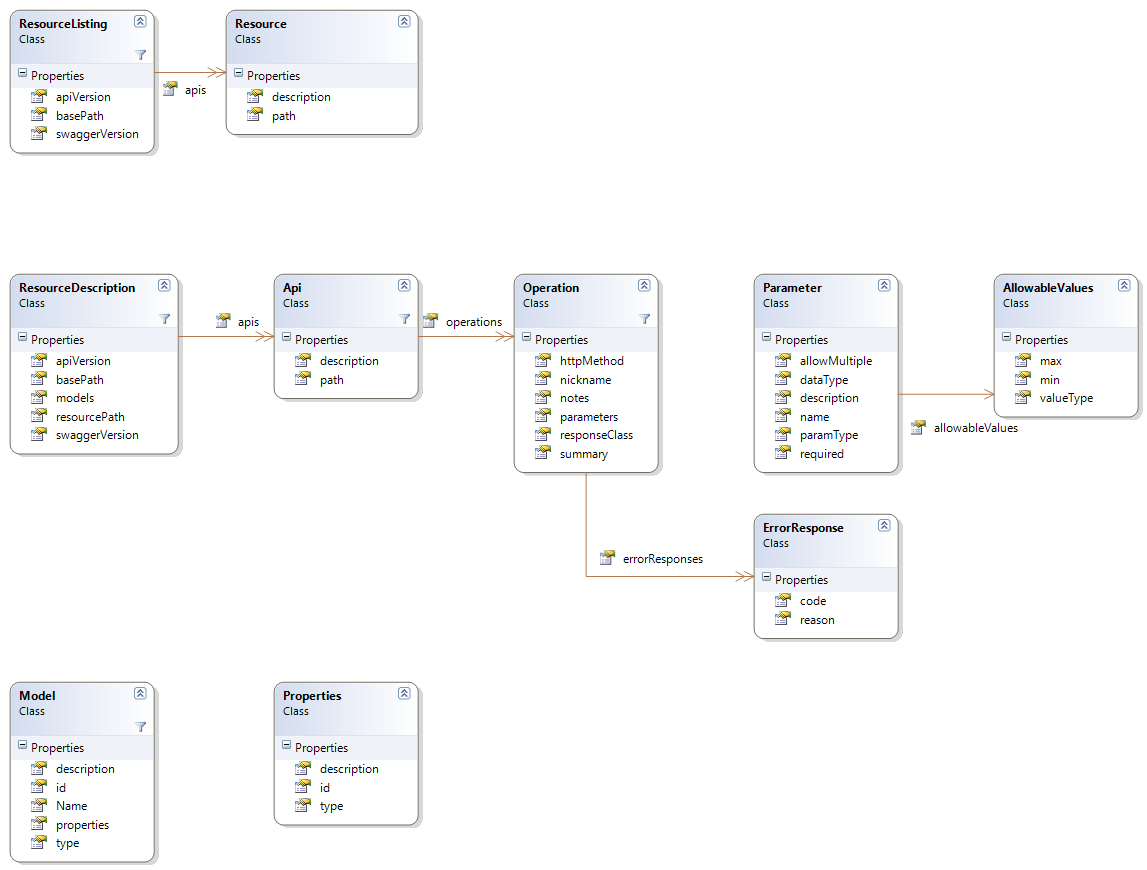
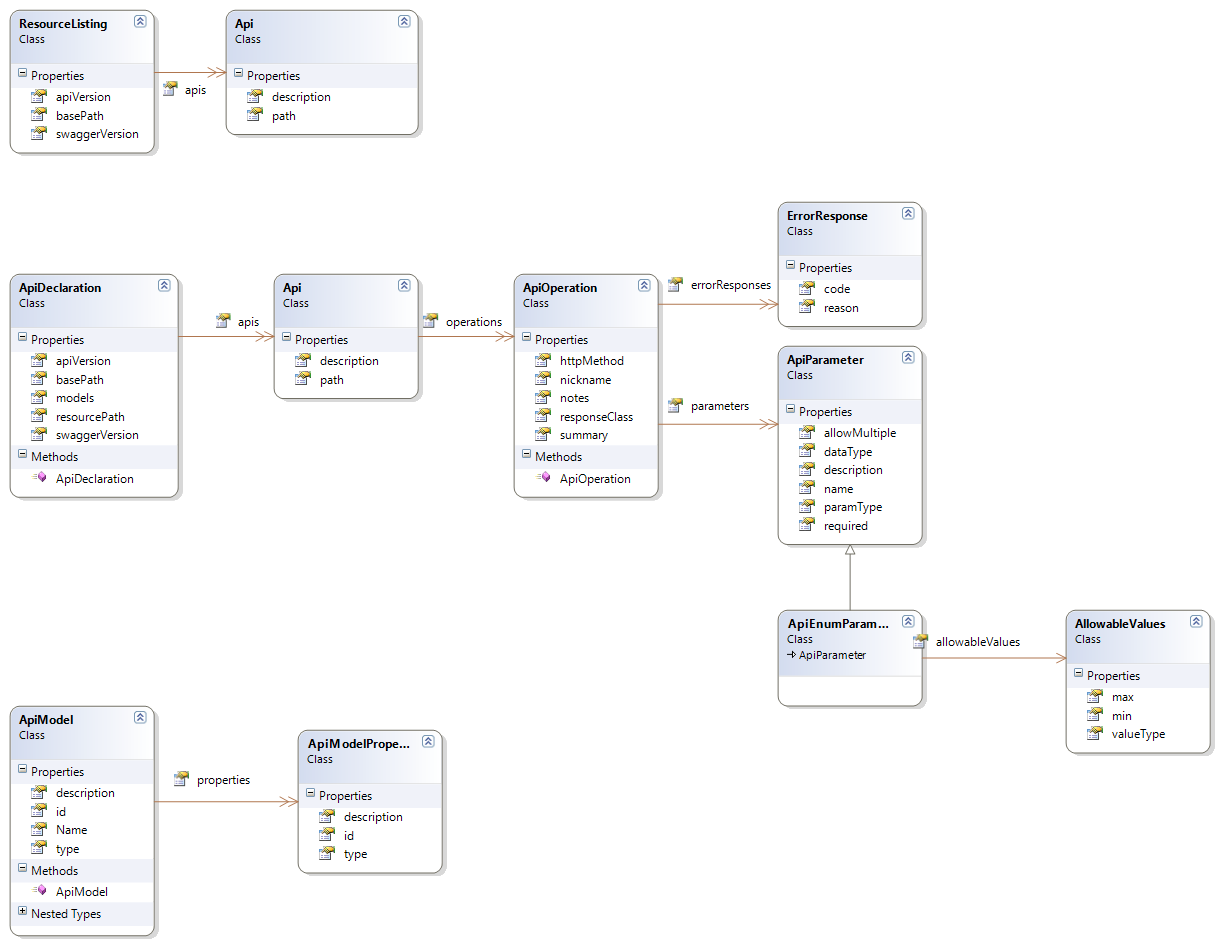
update models, recreate diagrams

diff --git a/Swagger.Net/Factories/ParameterFactory.cs b/Swagger.Net/Factories/ParameterFactory.cs
@@ -28,28 +28,30 @@ namespace Swagger.Net.Factories
 
         #endregion --- fields & ctors ---
 
-        public List<dynamic> CreateParameters(Collection<ApiParameterDescription> httpParams, string relativePath)
+        public List<ApiParameter> CreateParameters(Collection<ApiParameterDescription> httpParams, string relativePath)
         {
             var rtn = httpParams.Select(p => CreateParameter(p, relativePath));
             return rtn.ToList();
         }
 
-        public dynamic CreateParameter(ApiParameterDescription parameterDescription, string relativePath)
+        public ApiParameter CreateParameter(ApiParameterDescription parameterDescription, string relativePath)
         {
             var paramType = GetParamType(parameterDescription, relativePath);
             var isRequired = !parameterDescription.ParameterDescriptor.IsOptional;
             var dataType = ModelFactory.GetDataType(parameterDescription.ParameterDescriptor.ParameterType).Name;
-            var allMany = GetAllowMuliple(parameterDescription.ParameterDescriptor.ParameterType);
+            var allowMuliple = GetAllowMuliple(parameterDescription.ParameterDescriptor.ParameterType);
 
-            dynamic rtn = new ExpandoObject();
-            rtn.name = parameterDescription.Name;
-            rtn.dataType = dataType;
-            rtn.required = isRequired;
-            rtn.description = parameterDescription.Documentation;
-            rtn.paramType = paramType;
-            rtn.allowMultiple = allMany;
-            // allowableValues
-        
+            var rtn = new ApiParameter()
+                          {
+
+                              name = parameterDescription.Name,
+                              dataType = dataType,
+                              paramType = paramType,
+                              description = parameterDescription.Documentation,
+                              allowMultiple = allowMuliple,
+                              required = isRequired
+                              // allowableValues
+                          };
             return rtn;
         }
 

diff --git a/Swagger.Net/Models/ApiOperation.cs b/Swagger.Net/Models/ApiOperation.cs
@@ -6,7 +6,7 @@ namespace Swagger.Net.Models
     {
         public ApiOperation()
         {
-            this.parameters = new List<dynamic>();
+            this.parameters = new List<ApiParameter>();
             this.errorResponses = new List<ErrorResponse>();
         }
         public string httpMethod { get; set; }
@@ -14,23 +14,10 @@ namespace Swagger.Net.Models
         public string responseClass { get; set; }
         public string summary { get; set; }
         public string notes { get; set; }
-        public List<dynamic> parameters { get;  set; }
+        public List<ApiParameter> parameters { get;  set; }
         public List<ErrorResponse> errorResponses { get; set; }
     }
 
-    //
-    //  ---- Parameter Schema ----
-    //
-    //  public class ApiParameter
-    //  {
-    //      public string paramType { get; set; }
-    //      public string name { get; set; }
-    //      public string description { get; set; }
-    //      public string dataType { get; set; }
-    //      public bool required { get; set; }
-    //      public bool allowMultiple { get; set; }
-    //      public AllowableValues allowableValues { get; set; }
-    //  }
 }
 
 

diff --git a/Swagger.Net/Models/ApiModel.cs b/Swagger.Net/Models/ApiModel.cs
@@ -7,7 +7,7 @@ namespace Swagger.Net.Models
     {
         public ApiModel()
         {
-            this.properties = new List<Properties>();
+            this.properties = new List<ApiModelProperties>();
         }
 
         public string Name { get; set; }
@@ -15,15 +15,13 @@ namespace Swagger.Net.Models
         public string type { get; set; }
         public string description { get; set; }
 
-        public List<Properties> properties { get; private set; }
-
-        public class Properties
-        {
-            public string id { get; set; }
-            public string type { get; set; }
-            public string description { get; set; }
-        }
+        public List<ApiModelProperties> properties { get; private set; }
     }
 
-
+    public class ApiModelProperties
+    {
+        public string id { get; set; }
+        public string type { get; set; }
+        public string description { get; set; }
+    }
 }

diff --git a/Swagger.Net/Factories/ApiFactory.cs b/Swagger.Net/Factories/ApiFactory.cs
@@ -70,11 +70,11 @@ namespace Swagger.Net.Factories
             return delcaration;
         }
 
-        public IEnumerable<Api> CreateApi(IEnumerable<ApiDescription> apiDescs)
+        public IEnumerable<Models.Api> CreateApi(IEnumerable<ApiDescription> apiDescs)
         {
             var rtnApis = from apiDescription in apiDescs
                           let operations = CreateOperation(apiDescription)
-                          select new Api()
+                          select new Models.Api()
                           {
                               path = "/" + apiDescription.RelativePath,
                               description = apiDescription.Documentation,

diff --git a/Swagger.Net/Factories/ResourceListingFactory.cs b/Swagger.Net/Factories/ResourceListingFactory.cs
@@ -53,12 +53,12 @@ namespace Swagger.Net.Factories
             return rtnListing;
         }
 
-        private ResourceListing.Api[] CreateApis()
+        private Api[] CreateApis()
         {
             return (from api in _apiDescriptions
                     group api by api.ActionDescriptor.ControllerDescriptor.ControllerName
                     into g
-                    select new ResourceListing.Api
+                    select new Api
                                {
                                    description = g.First().Documentation,
                                    path = @"/" + g.Key

diff --git a/Swagger.Net/Models/ApiParameter.cs b/Swagger.Net/Models/ApiParameter.cs
@@ -1,0 +1,17 @@
+namespace Swagger.Net.Models
+{
+    public class ApiParameter
+    {
+        public string paramType { get; set; }
+        public string name { get; set; }
+        public string description { get; set; }
+        public string dataType { get; set; }
+        public bool required { get; set; }
+        public bool allowMultiple { get; set; }
+    }
+
+    public class ApiEnumParameter : ApiParameter
+    {
+        public AllowableValues allowableValues { get; set; }
+    }
+}

diff --git a/Swagger.Net/Models/ResourceListing.cs b/Swagger.Net/Models/ResourceListing.cs
@@ -10,13 +10,12 @@ namespace Swagger.Net
         public string swaggerVersion { get; set; }
         public string basePath { get; set; }
         public Api[] apis { get; set; }
+    }
 
-
-        public class Api
-        {
-            public string path { get; set; }
-            public string description { get; set; }
-        }
+    public class Api
+    {
+        public string path { get; set; }
+        public string description { get; set; }
     }
 }
 
